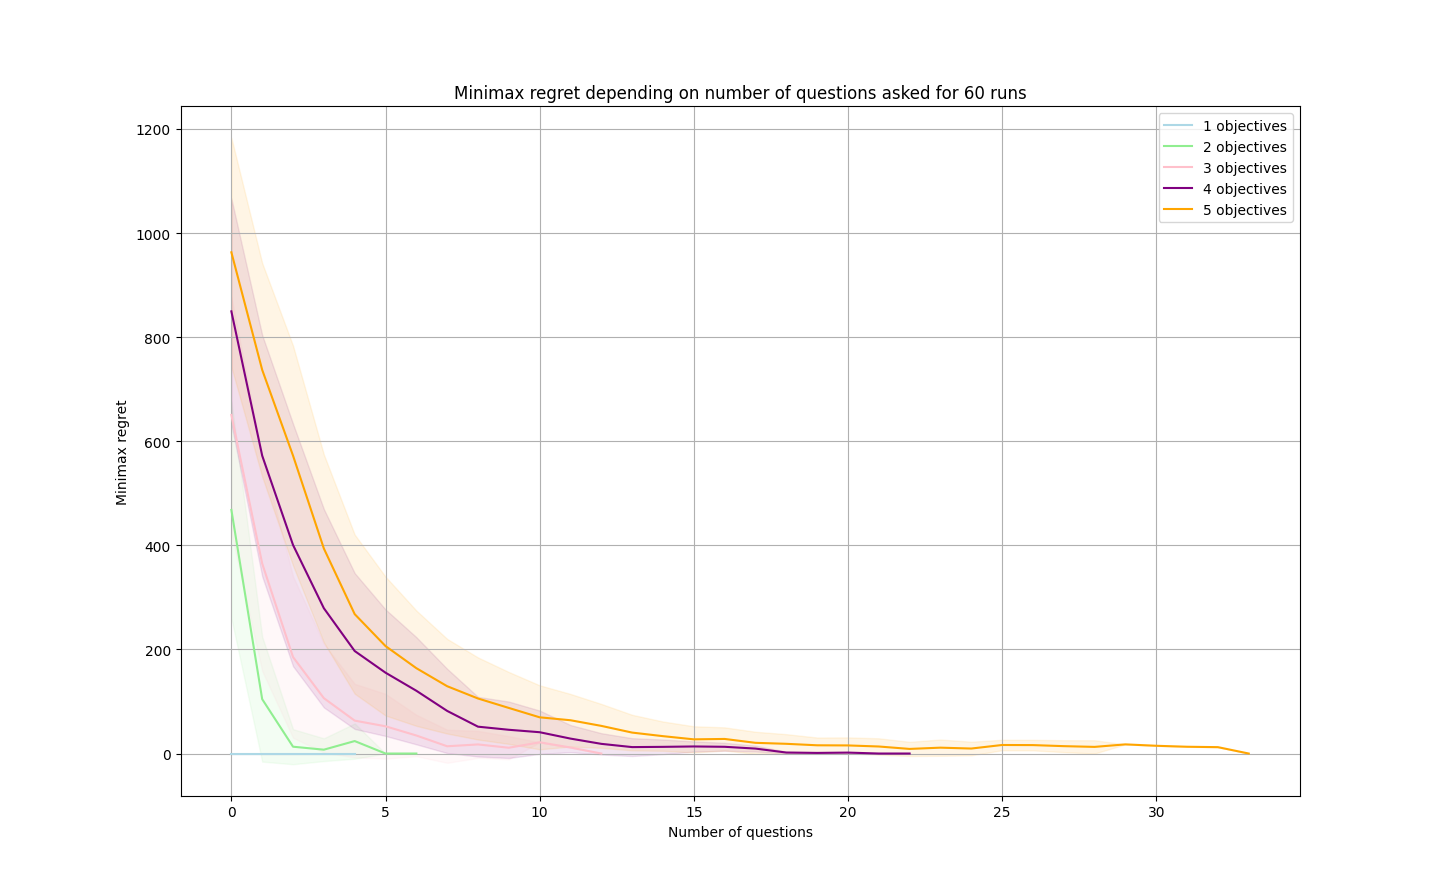
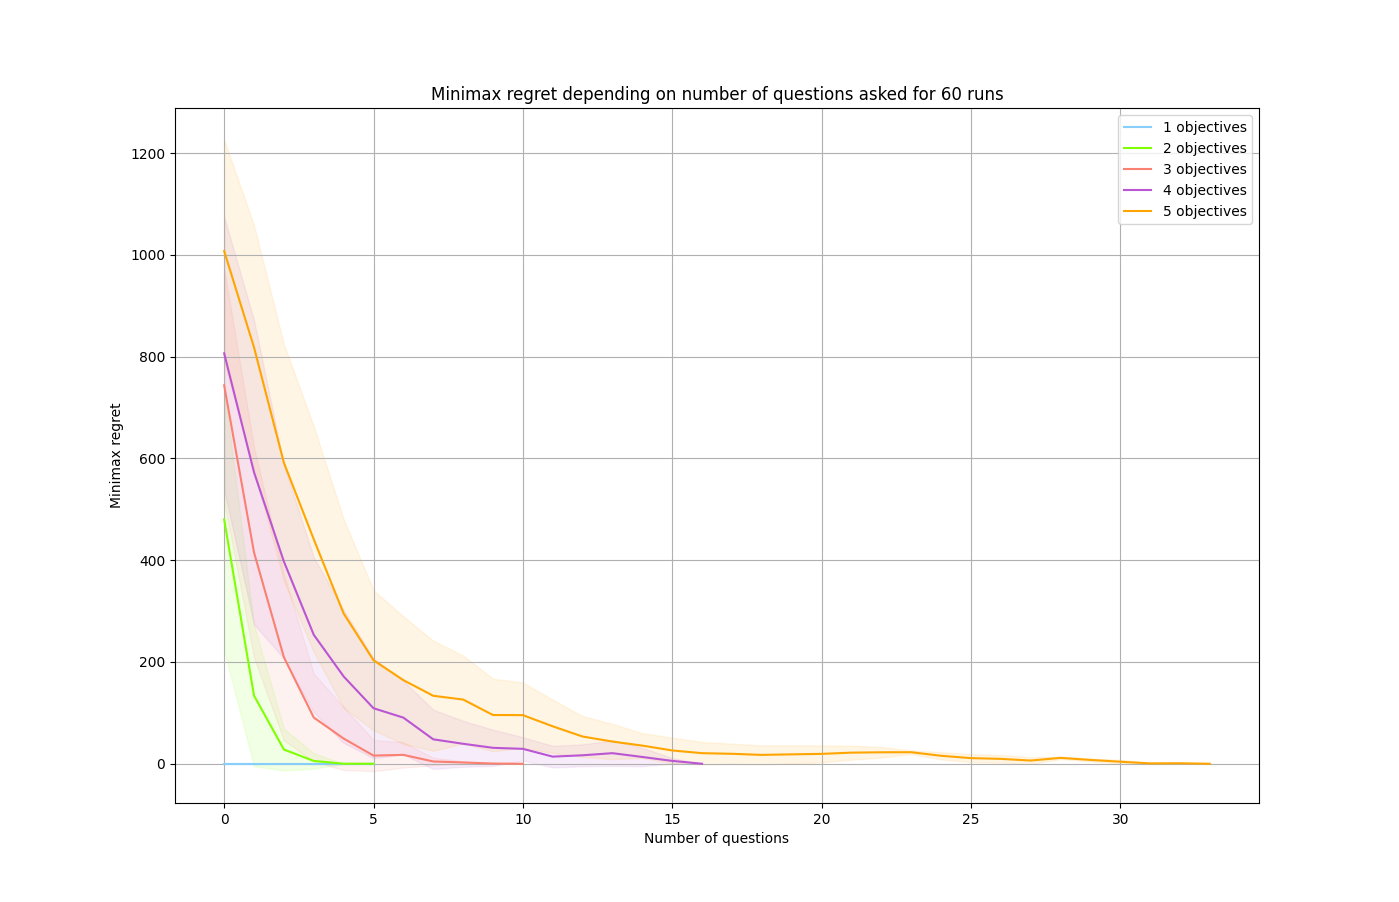
Added init_pop to run so we have the same start

diff --git a/main_part_2.py b/main_part_2.py
@@ -21,10 +21,10 @@ root = "Data/Other/2KP200-TA-{}.dat"
 
 nb_runs_2 = 20
 nb_obj_to_test_2 = 20
-crit_to_test_2 = [1,2,3]
+crit_to_test_2 = [1,2,3,4,5]
 crit_colors_2 = ["lightskyblue", "chartreuse", "salmon", "mediumorchid", "orange"]
 
-agregators_to_test = {"Weigthed sum":weighted_sum}
+agregators_to_test = {"Weighted Sum":weighted_sum, "OWA":OWA}
 
 
 # --------------------------------------------------------------------------
@@ -66,9 +66,12 @@ for name, agregator in agregators_to_test.items():
             pls_elicitation = PLS_ELICITATION(root=None, root2=None, instance=instance,
                                             agregation_function=user.agregation_function, weights=user.weights)
 
+            # Getting the same initial population
+            init_pop = pls3.get_init_pop(instance)
+
             # Executing each procedure
             start = time.time()
-            pls3.run(verbose_progress=False, show=False, show_best=False, verbose=False)
+            pls3.run(verbose_progress=False, show=False, show_best=False, verbose=False, init_pop=init_pop)
             elicitor = Elicitor(pls3.pareto_coords, user)
             opt_val, mmr = elicitor.query_user(verbose=False)
 
@@ -77,7 +80,7 @@ for name, agregator in agregators_to_test.items():
             question_2["First procedure"].append(len(elicitor.user_preferences))
 
             start = time.time()
-            pls_elicitation.run(verbose_progress=False, show=False, show_best=False, verbose=False)
+            pls_elicitation.run(verbose_progress=False, show=False, show_best=False, verbose=False, init_pop=init_pop)
 
             resolution_time_2["Second procedure"].append(time.time() - start)
             error_2["Second procedure"].append(abs(user.agregation_function(user.weights, pls_elicitation.pareto_coords[0]) - real_val))

diff --git a/main_part_1.py b/main_part_1.py
@@ -52,10 +52,13 @@ for nb_crit_it in crit_to_test_1:
         pls3 = PLS3(root=None, root2=None, instance=instance)
         pls_quadtree = PLS_QUADTREE(root=None, root2=None, instance=instance)
         pls_ndtree = PLS_NDTREE(root=None, root2=None, instance=instance)
+
+        # Getting the same initial population
+        init_pop = pls3.get_init_pop(instance)
         
         # Comparing speed of each algorithm
         start = time.time()
-        pls3.run(verbose_progress=False, show=False, show_best=False, verbose=False)
+        pls3.run(verbose_progress=False, show=False, show_best=False, verbose=False, init_pop=init_pop)
         resolution_time_1["No data structure"].append(time.time() - start)
 
         elicitor = Elicitor(pls3.pareto_coords, user)
@@ -63,7 +66,7 @@ for nb_crit_it in crit_to_test_1:
         mmr_list.append(elicitor.mmr_list)
 
         start = time.time()
-        pls_quadtree.run(verbose_progress=False, show=False, show_best=False, verbose=False)
+        pls_quadtree.run(verbose_progress=False, show=False, show_best=False, verbose=False, init_pop=init_pop)
         resolution_time_1["QuadTree"].append(time.time() - start)
 
         elicitor = Elicitor(pls_quadtree.pareto_coords, user)
@@ -71,7 +74,7 @@ for nb_crit_it in crit_to_test_1:
         mmr_list.append(elicitor.mmr_list)
 
         start = time.time()
-        pls_ndtree.run(verbose_progress=False, show=False, show_best=False, verbose=False)
+        pls_ndtree.run(verbose_progress=False, show=False, show_best=False, verbose=False, init_pop=init_pop)
         resolution_time_1["NDtree"].append(time.time() - start)
 
         elicitor = Elicitor(pls_ndtree.pareto_coords, user)

diff --git a/pls_ndtree.py b/pls_ndtree.py
@@ -30,7 +30,7 @@ class PLS_NDTREE(PLS3):
 
         return self.front_tree.update(score_x)[0]
 
-    def run(self, verbose=True, verbose_progress=True, show=True, show_best=True):
+    def run(self, verbose=True, verbose_progress=True, show=True, show_best=True, init_pop=None):
         """
         Run multiple times the algorithm on the given root
         """
@@ -58,7 +58,7 @@ class PLS_NDTREE(PLS3):
 
                 self.times.append(-time.time())
 
-                population_index = self.get_init_pop(instance) # Get the initial population
+                population_index = self.get_init_pop(instance) if init_pop is None else init_pop # Get the initial population
                 len_population = [-1, len(population_index)] # History of the pareto front's length
 
                 self.front_tree = NDTree(solutions=population_index, instance=instance, **self.tree_params)

diff --git a/pls_quadtree.py b/pls_quadtree.py
@@ -17,7 +17,7 @@ class PLS_QUADTREE(PLS3):
     def __init__(self, *args, init_S=30, **kwargs):
         super().__init__(*args, init_S=init_S, **kwargs) 
         
-    def run(self, verbose=True, verbose_progress=True, show=True, show_best=True):
+    def run(self, verbose=True, verbose_progress=True, show=True, show_best=True, init_pop=None):
         """
         Run multiple times the algorithm on the given root
         """
@@ -45,7 +45,7 @@ class PLS_QUADTREE(PLS3):
 
                 self.times.append(-time.time())
 
-                self.pareto_index = self.get_init_pop(instance)
+                self.pareto_index = self.get_init_pop(instance) if init_pop is None else init_pop
                 population_index = self.pareto_index[:] # Get the initial population
                 len_population = [-1, len(population_index)] # History of the pareto front's length
 

diff --git a/pls_elicitation_quadtree.py b/pls_elicitation_quadtree.py
@@ -24,7 +24,7 @@ class PLS_ELICITATION_QUADTREE(PLS3):
 
         self.nb_questions = 0
         
-    def run(self, verbose=True, verbose_progress=True, show=True, show_best=True):
+    def run(self, verbose=True, verbose_progress=True, show=True, show_best=True, init_pop=None):
         """
         Run multiple times the algorithm on the given root
         """
@@ -52,7 +52,7 @@ class PLS_ELICITATION_QUADTREE(PLS3):
 
                 self.times.append(-time.time())
 
-                self.pareto_index = self.get_init_pop(instance)
+                self.pareto_index = self.get_init_pop(instance) if init_pop is None else init_pop
                 population_index = self.pareto_index[:] # Get the initial population
                 len_population = [-1, len(population_index)] # History of the pareto front's length
 

diff --git a/pls_elicitation.py b/pls_elicitation.py
@@ -24,7 +24,7 @@ class PLS_ELICITATION(PLS3):
         
         self.nb_questions = 0
 
-    def run(self, verbose=True, verbose_progress=True, show=True, show_best=True):
+    def run(self, verbose=True, verbose_progress=True, show=True, show_best=True, init_pop=None):
         """
         Run multiple times the algorithm on the given root
         """
@@ -52,7 +52,7 @@ class PLS_ELICITATION(PLS3):
 
                 self.times.append(-time.time())
 
-                self.pareto_index = self.get_init_pop(instance)
+                self.pareto_index = self.get_init_pop(instance) if init_pop is None else init_pop
                 population_index = self.pareto_index[:] # Get the initial population
                 len_population = [-1, len(population_index)] # History of the pareto front's length
 

diff --git a/pls1.py b/pls1.py
@@ -130,7 +130,7 @@ class PLS1:
 
         return True
 
-    def run(self, verbose=True, verbose_progress=True, show=True, show_best=True):
+    def run(self, verbose=True, verbose_progress=True, show=True, show_best=True, init_pop=None):
         """
         Run multiple times the algorithm on the given root
         """
@@ -158,7 +158,7 @@ class PLS1:
 
                 self.times.append(-time.time())
 
-                self.pareto_index = self.get_init_pop(instance)
+                self.pareto_index = self.get_init_pop(instance) if init_pop is None else init_pop
                 population_index = self.pareto_index[:] # Get the initial population
                 len_population = [-1, len(population_index)] # History of the pareto front's length
 
